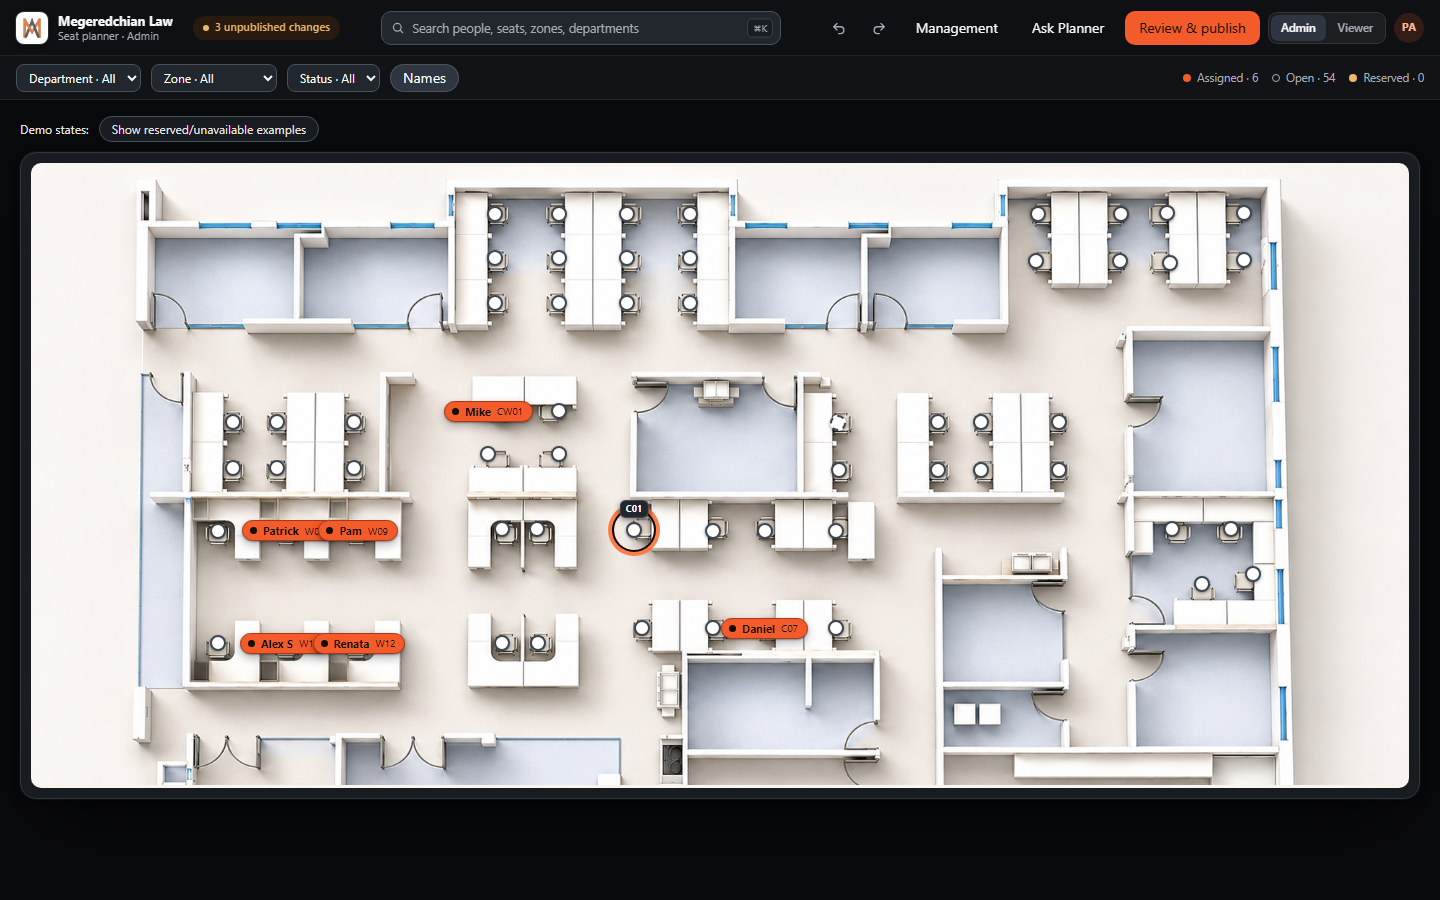
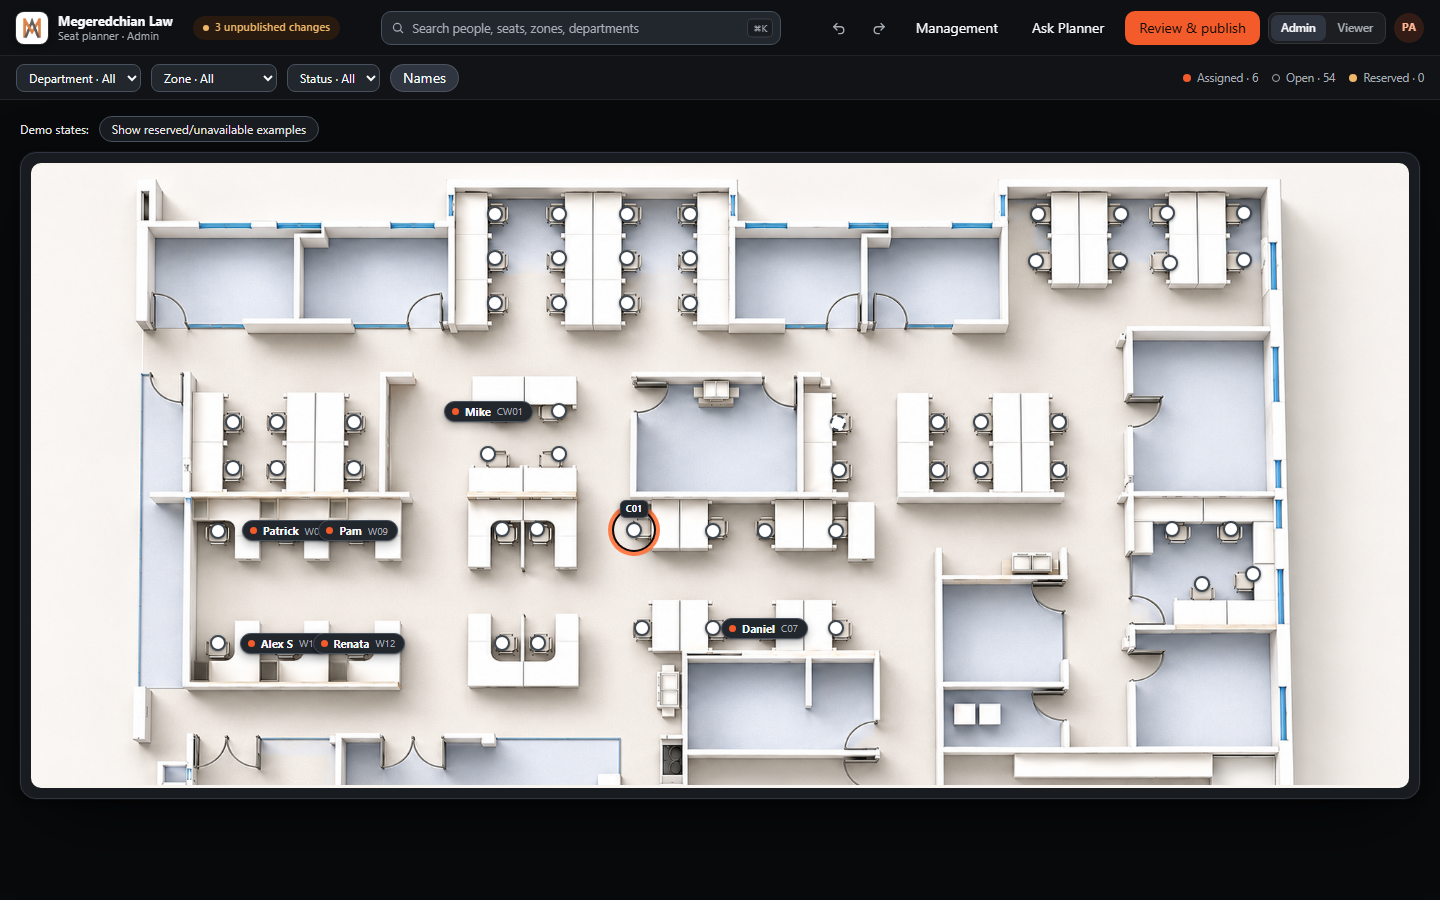
design(phase-3.5): assigned plates go neutral dark — owner decision from the full-occupancy study
Owner reviewed the 60/60 study on #102 and selected variant C: occupied
plates are neutral dark (#22262D, #48515E border) with white name 14.51:1,
muted code 6.71:1, and THE orange as a scarce #F45B2A status dot (4.61:1).
The dark fill alone clears every sampled floor patch (min 4.02:1, typ. >=7.2).

Selected state becomes a counter-ring + ember glow: white ring with a fine
ink edge on dark plates (15.18:1 vs plate, edge >=9.11:1 vs floor); plain
ink ring stays on light marks (dots, reserved, match — 5.11–19.28:1).

DESIGN_DIRECTION.md records the decision (status, principle 3, §2.3, §3,
§5) and the validation screenshots are re-captured on the final look.

Typecheck, lint, 198/198 tests green.

diff --git a/app/concepts/map-redesign/MapRedesignPreview.tsx b/app/concepts/map-redesign/MapRedesignPreview.tsx
@@ -743,12 +743,17 @@ const EMBER_PREVIEW_CSS = `
   --ember-info-text: #8CCBCE;
 
   /* Marker system — two-layer marks on the light floor (light casing + dark
-     core so every floor patch, L 0.23–0.81 measured, sees >= 3:1 from one layer). */
+     core so every floor patch, L 0.23–0.81 measured, sees >= 3:1 from one layer).
+     Assigned plates are NEUTRAL DARK with an orange status dot — owner call
+     2026-07-09 after the 60/60 full-occupancy study (full-orange plates drown
+     the map); the dark fill alone clears every measured patch (min 4.02:1). */
   --ember-marker-open-ring: #3E4650;
   --ember-marker-unavailable-ring: #6B7280;
-  --ember-plate-fill: #F45B2A;
-  --ember-plate-border: #A93818;
-  --ember-plate-ink: #140D04;
+  --ember-plate-fill: #22262D;
+  --ember-plate-border: #48515E;
+  --ember-plate-name: #F8FAFC;
+  --ember-plate-code: #A7ADB5;
+  --ember-plate-dot: #F45B2A;
   --ember-reserved-tint: #FBEED3;
   --ember-reserved-accent: #7A4E00;
   --ember-match-tint: #DCEDEA;
@@ -1394,21 +1399,21 @@ const EMBER_PREVIEW_CSS = `
   width: 7px;
   height: 7px;
   border-radius: 999px;
-  background: var(--ember-plate-ink);
+  background: var(--ember-plate-dot);
   flex: none;
 }
 
 .ember-plate-name {
   font-size: 11px;
   font-weight: 700;
-  color: var(--ember-plate-ink);
+  color: var(--ember-plate-name);
   line-height: 1.2;
 }
 
 .ember-plate-code {
   font-size: 10px;
   font-weight: 400;
-  color: var(--ember-plate-ink);
+  color: var(--ember-plate-code);
   line-height: 1.2;
 }
 
@@ -1452,9 +1457,17 @@ const EMBER_PREVIEW_CSS = `
   background: var(--ember-match-accent);
 }
 
+/* Selected = ember glow + counter-ring: white with a fine ink edge on the dark
+   assigned plate (white vs plate 15.18:1, ink edge vs floor >= 9.11:1); plain
+   ink ring on light marks — see the reserved/match exception below. */
 .ember-marker.is-selected .ember-plate {
-  box-shadow: 0 0 0 2px var(--ember-selected-ring), 0 0 0 7px var(--ember-accent-glow), 0 12px 26px rgba(0, 0, 0, 0.45);
+  box-shadow: 0 0 0 2px #FFFFFF, 0 0 0 3px rgba(20, 13, 4, 0.85), 0 0 0 8px var(--ember-accent-glow), 0 12px 26px rgba(0, 0, 0, 0.45);
   transform: scale(1.06);
+}
+
+.ember-marker.is-selected .ember-plate--reserved,
+.ember-marker.is-match.is-selected .ember-plate {
+  box-shadow: 0 0 0 2px var(--ember-selected-ring), 0 0 0 7px var(--ember-accent-glow), 0 12px 26px rgba(0, 0, 0, 0.45);
 }
 
 /* ---------- Docked inspector ---------- */

diff --git a/docs/DESIGN_DIRECTION.md b/docs/DESIGN_DIRECTION.md
@@ -1,6 +1,6 @@
 # Design direction — Phase 3.5 (Ember Studio)
 
-**Status:** owner-requested palette revision dated **2026-07-09**. The Phase 3 palette ("Counsel Ink", the light cream/ivory theme signed off 2026-07-08) was **rejected by the owner**; the direction is now **"Ember Studio" — a dark UI with Ember orange `#F45B2A` as the single primary brand**. Everything structural from Phase 3 stands unchanged: the docked inspector (§2.1), the filter bar (§2.2), the Plate & Dot marker system (§2.3), the chrome layout (§2.4), and the flagged behavior items (§6). Only the color system changed, and it was re-validated live on the gated prototype route on 2026-07-09. **Awaiting owner sign-off on the dark look before Phase 4 implements; nothing in this phase touched shipped surfaces.**
+**Status:** owner-requested palette revision dated **2026-07-09**. The Phase 3 palette ("Counsel Ink", the light cream/ivory theme signed off 2026-07-08) was **rejected by the owner**; the direction is now **"Ember Studio" — a dark UI with Ember orange `#F45B2A` as the single primary brand**. Everything structural from Phase 3 stands unchanged: the docked inspector (§2.1), the filter bar (§2.2), the Plate & Dot marker system (§2.3), the chrome layout (§2.4), and the flagged behavior items (§6). Only the color system changed, and it was re-validated live on the gated prototype route on 2026-07-09. **Assigned-plate decision (owner, 2026-07-09):** after reviewing the 60/60 full-occupancy study (`docs/design-review/ember/study-full-*.png`), the owner chose **neutral dark plates with an orange status dot** over the Ember spec's full-orange plates — full-orange drowns the map at occupancy. **Awaiting owner sign-off on the dark look before Phase 4 implements; nothing in this phase touched shipped surfaces.**
 
 **Artifacts**
 
@@ -8,7 +8,7 @@
 | --- | --- |
 | Figma file | https://www.figma.com/design/iFa1DEChHFeSypR7spEhpM — structure still authoritative (marker/inspector anatomy on page 03, screens on page 04); the page 02 token *values* carry Counsel Ink and are **superseded by §3 of this doc**. Re-skinning the Figma pages is Phase 4 work if wanted. |
 | Live-code preview | `app/concepts/map-redesign/` — gated by `SEAT_PLANNER_ENABLE_PROTOTYPES=true` (404 in prod; the gate was re-confirmed live: a production build without the flag prerenders the route as 404). Real 60-seat published dataset at true calibrated coordinates through the production `seatsToVisualSeats` → `pointToStyle` chain. **Re-validated on Ember 2026-07-09**: docked reflow, teal search + 40% dim, filters + chips, demo reserved/unavailable states, names-off initials, keyboard focus ring on markers, viewer/admin toggle, mobile sheet; typecheck, lint, 198/198 tests green; no shipped file modified. |
-| Validation screenshots | `docs/design-review/ember/` — desktop admin (default, inspector, search, filters, demo states, names off, marker focus), viewer (desktop + inspector), mobile (admin, sheet, viewer), and 2× marker close-ups on the real floor |
+| Validation screenshots | `docs/design-review/ember/` — desktop admin (default, inspector, search, filters, demo states, names off, marker focus), viewer (desktop + inspector), mobile (admin, sheet, viewer), 2× marker close-ups on the real floor, plus the `study-full-*.png` full-occupancy set (orange names/initials vs neutral plates) that drove the assigned-plate decision |
 | Before-state baseline | `docs/design-review/after/` (captured at PR #81; deltas to main: #82 bone pills, #84 brand logo) |
 
 ---
@@ -17,7 +17,7 @@
 
 1. **The map is the hero; chrome is the frame — gallery style.** The floor plan is a fixed light raster; the app around it goes dark (`#090A0C` canvas, `#111316` chrome), so the map reads as lit artwork in a dark room. Nothing may cover the canvas on desktop — panels reserve layout instead of floating over seats (INV-6 extended from filters to the inspector). Glass chrome never floats over the map (measured: muted text on glass-over-floor is 3.62:1 — fails).
 2. **People pop, empty seats recede.** Two-tier marker language: occupied seats are name plates, open seats are quiet dots. Status is never color-alone (≥2 channels: hue + shape/glyph).
-3. **One orange.** `#F45B2A` is THE brand orange — Publish, assigned seats, brand moments — with a single ramp: `#FF7138` hover, `#D94A1F` pressed, `#A93818` deep (borders/halos on light contexts). **Ink `#140D04` is the locked text color on every orange fill** (5.85:1 rest / 7.04 hover / 4.54 pressed; white fails at 3.29). Orange is never used for hierarchy — weight/size/space do that.
+3. **One orange, kept scarce.** `#F45B2A` is THE brand orange — Publish, the selection glow, assigned-status dots, brand moments — with a single ramp: `#FF7138` hover, `#D94A1F` pressed, `#A93818` deep (borders/halos on light contexts). **Ink `#140D04` is the locked text color on every orange fill** (5.85:1 rest / 7.04 hover / 4.54 pressed; white fails at 3.29). Orange is never used for hierarchy, and it is **not a plate fill**: the full-occupancy study showed orange plates become wallpaper at 60/60, so occupied plates are neutral dark and orange stays a signal (owner call 2026-07-09).
 4. **Sentence case everywhere.** The viewer's ALL-CAPS tracked micro-labels are retired.
 5. **Cool dark neutrals; floor-measured states.** Every neutral is a cool slate-dark (`#181B20` panels → `#48515E` strong borders); the warm ivory/paper family is retired. On-floor state colors are **re-derived against the real floor pixels** (see §5's two-layer rule), not assumed tones; dark-chrome state chips pair a 16% base tint with light state text. The teal search identity carries forward, ring deepened to `#1D4042` for the floor.
 6. **Accessibility is the only frozen guardrail.** Every text pair ≥ 4.5:1, every meaningful graphic ≥ 3:1 — measured, recorded in §5, and baked into token values rather than checked after the fact.
@@ -41,8 +41,8 @@
 
 ### 2.3 Seat markers: the "Plate & Dot" system (Ember values)
 
-- **Open seat:** 16px **white dot with 2px `#3E4650` slate ring** — the white casing + dark ring pair is what clears 3:1 on every measured floor patch (§5); seat code appears as a tag on hover/focus (dark `#22262D` chip, light text). **Custom seat:** dashed ring (a distinct visual state). **Occupied (assigned):** name plate in **brand orange `#F45B2A` with 1.5px `#A93818` border and ink `#140D04` text + status dot** (ink text 5.85:1; border 3.04:1 worst-case vs the floor). Names-off mode collapses plates to initials chips (same anatomy).
-- **Selected:** **2px ink `#140D04` ring + `rgba(244,91,42,.35)` ember glow** + elevation + 1.06 scale (motion-safe), raised above neighbouring plates (plates collide at real density — the selected one always wins z-order; verified live at W08/W09). The ink ring is the measured replacement for the spec's `#FF7138` ring, which hit 1.00:1 on the worst floor patch; it clears ≥5.11:1 on every seat and ≥5.85:1 on every plate fill, while the glow keeps the moment orange. **Search/filter match:** teal `#DCEDEA` tint + `#1D4042` ring/text; non-matches dim 40%. **Reserved:** cream `#FBEED3` plate with `#7A4E00` border/dot/tagword (spec's `#F59E0B` measured 1.01:1 on the floor — rejected). **Unavailable:** white dot + `#6B7280` muted ring + **ink strike glyph** (the strike doubles as the dark contrast layer). **Draft-changed (admin):** ink corner tick (shape + position channel; final geometry in Phase 4). Admin mode states carry the 13-state taxonomy forward on the same two-layer rule — target-valid pairs a light tint with floor-safe green `#166534`, target-invalid a neutral plate with brick `#963D2F` accent, move-origin a dashed ring.
+- **Open seat:** 16px **white dot with 2px `#3E4650` slate ring** — the white casing + dark ring pair is what clears 3:1 on every measured floor patch (§5); seat code appears as a tag on hover/focus (dark `#22262D` chip, light text). **Custom seat:** dashed ring (a distinct visual state). **Occupied (assigned):** name plate in **neutral dark `#22262D` with `#48515E` border, white `#F8FAFC` name, muted `#A7ADB5` code, and an orange `#F45B2A` status dot** — the plate reads like a gallery label on the lit floor. This is the owner-selected outcome of the 60/60 full-occupancy study (the Ember spec's orange plates drown the map at occupancy); it is also the strongest mark measured — the dark fill alone clears **every** sampled patch (min 4.02:1, typ. ≥7.2:1), name 14.51:1, dot 4.61:1 vs fill. Names-off mode collapses plates to initials chips (same anatomy).
+- **Selected:** **ember glow `rgba(244,91,42,.35)` + a counter-ring** + elevation + 1.06 scale (motion-safe), raised above neighbouring plates (plates collide at real density — the selected one always wins z-order; verified live at W08/W09). The counter-ring takes the opposite layer of whatever it wraps: **white with a fine ink edge on the dark assigned plate** (white vs plate 15.18:1; ink edge vs floor ≥9.11:1), **plain ink `#140D04` on light marks** — dots (19.28:1 vs fill, ≥5.11:1 vs floor), reserved plates (16.78:1), match plates (15.93:1). The spec's `#FF7138` ring measured 1.00:1 on the worst floor patch — rejected; the glow keeps the moment orange. **Search/filter match:** teal `#DCEDEA` tint + `#1D4042` ring/text; non-matches dim 40%. **Reserved:** cream `#FBEED3` plate with `#7A4E00` border/dot/tagword (spec's `#F59E0B` measured 1.01:1 on the floor — rejected). **Unavailable:** white dot + `#6B7280` muted ring + **ink strike glyph** (the strike doubles as the dark contrast layer). **Draft-changed (admin):** corner tick in the orange dot family (shape + position channel; final geometry in Phase 4). Admin mode states carry the 13-state taxonomy forward on the same two-layer rule — target-valid pairs a light tint with floor-safe green `#166534`, target-invalid a neutral plate with brick `#963D2F` accent, move-origin a dashed ring.
 - Full specimen close-ups on the real floor: `docs/design-review/ember/marker-closeup*.png`. Hit target ≥ 40px (invisible hitbox around dots; note: at 390px width the 40px hitboxes of adjacent pod seats overlap — one more reason mobile defaults names off, §4). **All marker colors move to the `--sp-marker-*` token family** — the hardcoded hex in `SeatMarker.tsx` and the dead `--admin-marker-*` `variant="admin"` branch are both retired (see §7).
 - True coordinates and the calibration transform are untouched — the preview renders through `lib/seatMath` + `lib/mapLayoutTransform` to prove it.
 
@@ -67,7 +67,7 @@ Values below are the Phase 4 swap for `app/globals.css`. (The Figma page 02 vari
 | `--sp-color-action-primary` | `#B2430F` | **`#F45B2A`** | the action ramp IS the brand ramp now; ink text, not white |
 | `--sp-color-action-primary-hover` | `#A63A12` | **`#FF7138`** | |
 | `--sp-color-action-primary-pressed` | `#93330F` | **`#D94A1F`** | ink 4.54:1 — the binding constraint that locked the ink value |
-| *(brand deep — new)* | — | **`#A93818`** | plate borders, halos on light contexts (3.04:1 worst-case vs floor) |
+| *(brand deep — new)* | — | **`#A93818`** | deep ramp step — halos/accents on light contexts (3.04:1 worst-case vs floor) |
 | *(brand ink — new)* | — | **`#140D04`** | LOCKED text on any orange fill; `#1A1206` failed pressed at 4.37 |
 | `--sp-color-chrome-bg` | *(admin `#1F2225`)* | **`#111316`** | first-class, both surfaces; glass `rgba(17,19,22,.72)` + `blur(20px)` |
 | `--sp-color-chrome-elevated` | *(admin `#262A2D`)* | **`#22262D`** | inputs/chips on chrome |
@@ -91,13 +91,13 @@ Values below are the Phase 4 swap for `app/globals.css`. (The Figma page 02 vari
 | `--sp-color-state-info/search` | `#2F6668` / `#DCEDEA` | **base kept; dark-UI text `#8CCBCE`; on-floor ring/text deepen to `#1D4042`** | tint `#DCEDEA` stays; 9.30:1 match text |
 | `--sp-color-state-disabled` | `#DDDFE2` | **`#303641`** | inert dark fill + `#6B7280` text |
 | `--sp-marker-open-ring` | *(planned `#6E747A`)* | **`#3E4650`** | + white casing; FULL two-layer coverage, best-layer min 3.18:1 |
-| *(marker plate fill — new)* | *(white plates)* | **`#F45B2A`** | assigned plates are the brand statement |
-| `--sp-marker-plate-border` | *(planned `#C9C3BA`)* | **`#A93818`** | 3.04:1 worst measured plate footprint (@N01) |
-| `--sp-marker-plate-text` / `-code` | *(planned `#201D1A`/`#5E574E`)* | **`#140D04`** both | 5.85:1 on the fill; weight differentiates name vs code |
-| `--sp-marker-assigned` (status dot) | *(planned `#3F6F59`)* | **`#140D04`** | ink dot on orange; green leaves the marker family |
+| *(marker plate fill — new)* | *(white plates)* | **`#22262D`** | neutral dark plates (owner call after the 60/60 study); fill alone clears every patch, min 4.02:1 |
+| `--sp-marker-plate-border` | *(planned `#C9C3BA`)* | **`#48515E`** | decorative (1.89:1 vs fill); the boundary is carried by the dark fill itself |
+| `--sp-marker-plate-text` / `-code` | *(planned `#201D1A`/`#5E574E`)* | **`#F8FAFC` / `#A7ADB5`** | 14.51:1 / 6.71:1 on the fill |
+| `--sp-marker-assigned` (status dot) | *(planned `#3F6F59`)* | **`#F45B2A`** | THE orange as a scarce signal; 4.61:1 vs the plate fill; green leaves the marker family |
 | `--sp-marker-reserved` | *(planned `#9A6418`)* | **`#7A4E00` on `#FBEED3` tint** | 6.26:1 text; 3.40:1 worst plate footprint |
 | `--sp-marker-unavailable` | *(planned `#B6B0A7`)* | **white dot + `#6B7280` ring + ink strike** | strike is the dark layer; FULL coverage |
-| `--sp-marker-selected-ring` | *(planned `#B8541A`)* | **`#140D04`** + `rgba(244,91,42,.35)` glow | min 5.11:1 vs floor; 5.85–19.28:1 vs every fill |
+| `--sp-marker-selected-ring` | *(planned `#B8541A`)* | **counter-ring + `rgba(244,91,42,.35)` glow** — white w/ ink edge on dark plates; `#140D04` on light marks | white vs plate 15.18:1, ink edge vs floor ≥9.11:1; ink ring ≥5.11:1 vs floor, 15.93–19.28:1 vs light fills |
 | `--sp-marker-search-surface/-accent/-text` | *(planned `#DCEDEA`/`#2F6668`/`#1D4042`)* | **`#DCEDEA` / `#1D4042` / `#1D4042`** | ring deepened for FULL floor coverage (spec `#2F6668` left a covered-gap risk) |
 | *(marker focus — new)* | *(chrome ring reused)* | **double ring `#FFFFFF` + `#542D12`** | markers sit on the floor where the orange ring fails (see §5); FULL coverage, min 3.52:1 |
 | focus ring (chrome) | `rgb(194 65 12 / .9)` | **`rgba(255,113,56,.9)`** | 4px, offset 2 unchanged; 4.44–7.23:1 on all dark surfaces |
@@ -123,7 +123,7 @@ Unchanged scales: space 4–48, radius 6–999, durations 150/200/280ms, focus r
 
 **Call #1 — text on orange (resolved).** White on `#F45B2A` = **3.29** (fails AA). Locked ink **`#140D04`**: on accent **5.85** · on hover `#FF7138` **7.04** · on pressed `#D94A1F` **4.54** — AA on the whole ramp. (`#1A1206` was rejected: 4.37 on pressed.)
 
-**Call #2 — markers on the real floor (resolved; worst-seat numbers).** Open dot (white + `#3E4650` ring): FULL coverage, best-layer min **3.18** (@CW06), ring vs own fill **9.56**. Match dot/plate (`#DCEDEA` + `#1D4042`): FULL, min **3.12** (@NE04); match text on tint **9.30**. Selected (ink ring): min **5.11** vs floor (@NE04); vs white dot **19.28**, vs assigned fill **5.85**, vs reserved tint **16.78**, vs match tint **15.93**; glow decorative. Marker focus (white + `#542D12`): FULL, min **3.52**; ring pair internal **11.92**. Unavailable (white dot + ink strike): FULL; strike vs fill **15.26**; `#6B7280` ring is the hue cue. Assigned plate (`#F45B2A` + `#A93818` border): border min **3.04** (@N01) — every measured plate footprint passes; the analytic gap (patch L 0.06–0.44) contains no seat; ink name text **5.85** and the elevation shadow are further channels. Reserved plate (`#FBEED3` + `#7A4E00`): min **3.40** (@N01); text on tint **6.26**. Department floor-safe accents: mins **3.04–3.43** (@N01).
+**Call #2 — markers on the real floor (resolved; worst-seat numbers).** Open dot (white + `#3E4650` ring): FULL coverage, best-layer min **3.18** (@CW06), ring vs own fill **9.56**. Match dot/plate (`#DCEDEA` + `#1D4042`): FULL, min **3.12** (@NE04); match text on tint **9.30**. Assigned plate (`#22262D`, `#48515E` border, `#F45B2A` dot — owner-selected after the full-occupancy study): the dark fill alone clears every sampled patch — min **7.17** across plate footprints (@N01), **4.02** even against the harshest dot-footprint patch (@NE04); name `#F8FAFC` **14.51**, code `#A7ADB5` **6.71**, orange dot **4.61** vs fill. Selected (counter-ring + ember glow): on the dark plate, white ring vs plate **15.18** with ink outer edge vs floor min **9.11** (@N01); on light marks, ink `#140D04` ring — min **5.11** vs floor (@NE04), vs white dot **19.28**, vs reserved tint **16.78**, vs match tint **15.93**; glow decorative. Marker focus (white + `#542D12`): FULL, min **3.52**; ring pair internal **11.92**. Unavailable (white dot + ink strike): FULL; strike vs fill **15.26**; `#6B7280` ring is the hue cue. Reserved plate (`#FBEED3` + `#7A4E00`): min **3.40** (@N01); text on tint **6.26**. Department floor-safe accents: mins **3.04–3.43** (@N01).
 
 **Text on dark surfaces (AA ≥ 4.5).** primary `#F8FAFC`: canvas **18.93** · chrome **17.78** · panel **16.50** · raised **14.51** · elevated **11.60**. secondary `#E8E6E3`: panel **13.86** · raised **12.19** · elevated **9.75**. muted `#A7ADB5`: canvas **8.76** · chrome **8.23** · panel **7.64** · raised **6.71** · elevated **5.37**. disabled `#6B7280`: panel **3.57** — *non-essential only*. Orange as text `#F45B2A`: panel **5.24** · raised **4.61**. State-chip text on 16% tints (chrome/raised/elevated): success `#8FD0AE` **9.15/7.41/6.11** · warning `#EFB868` **9.10/7.43/6.06** · danger `#F0A896` **8.63/7.07/5.86** · info `#8CCBCE` **9.13/7.45/6.06**. Danger outline-button text on raised **7.77**. Avatar `#FFB694` on orange tint **7.13**.
 
